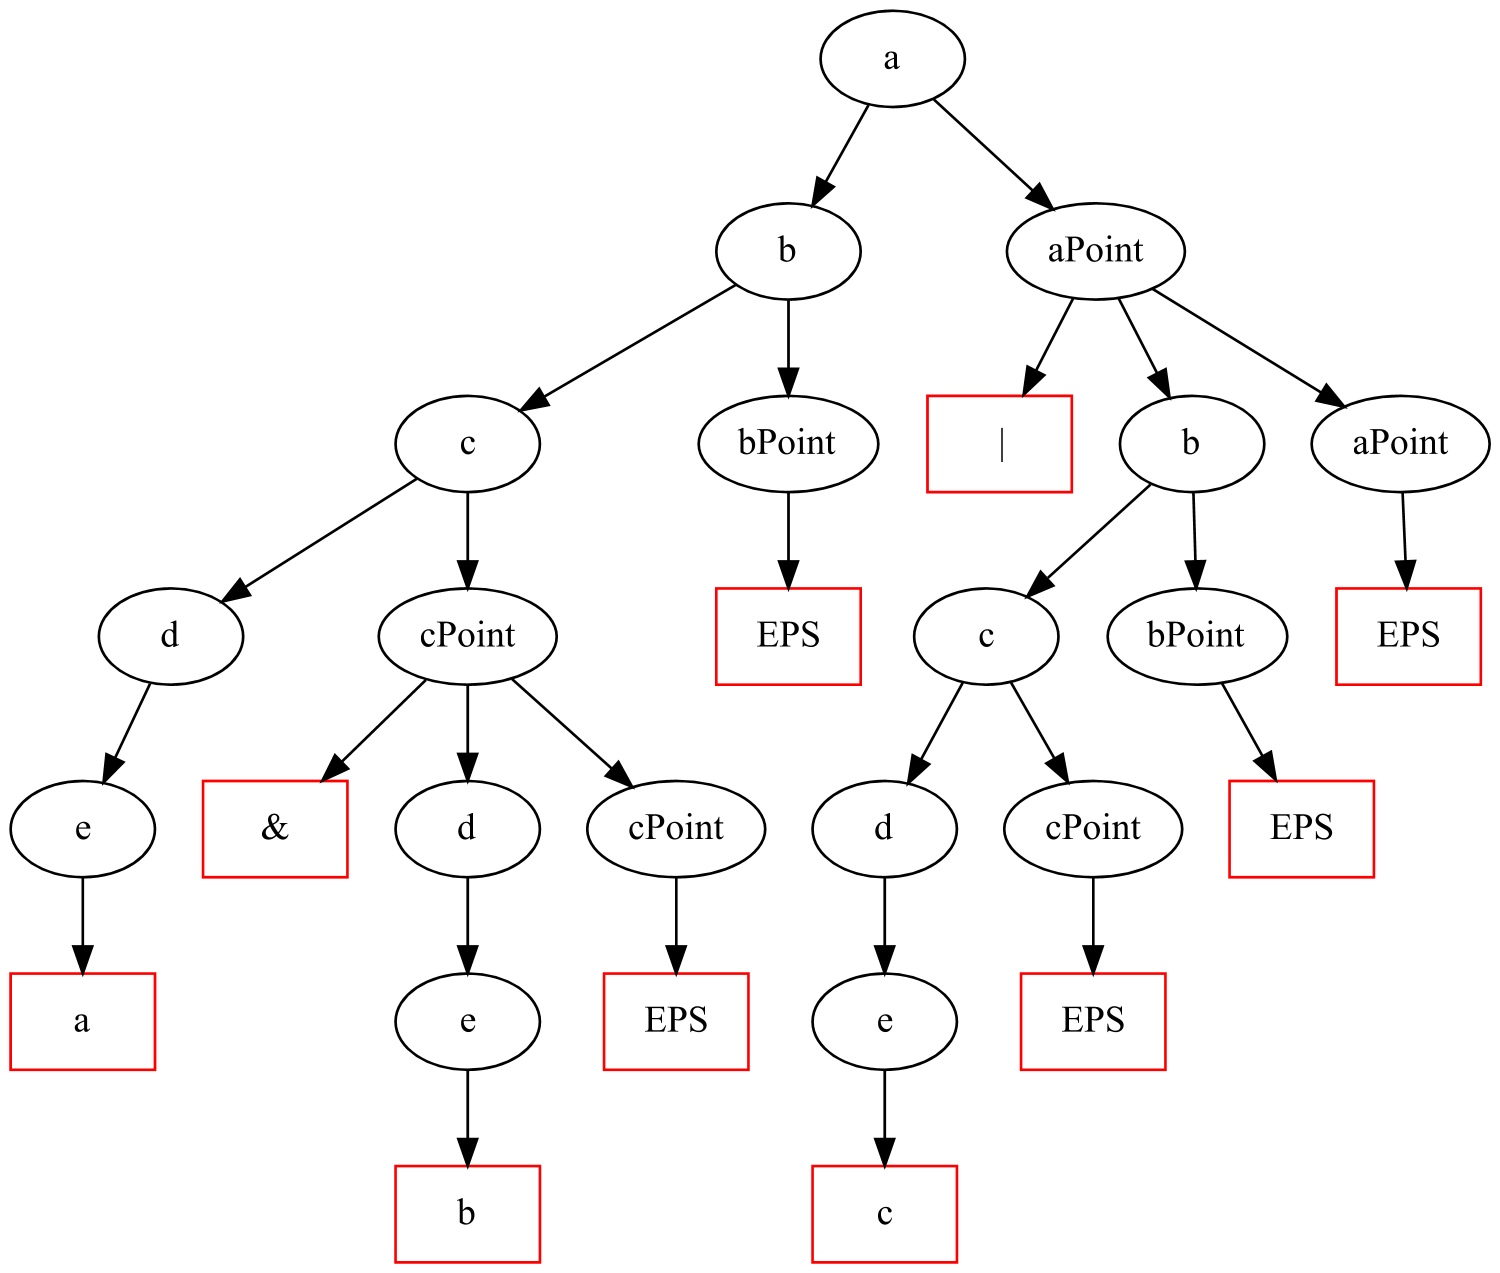
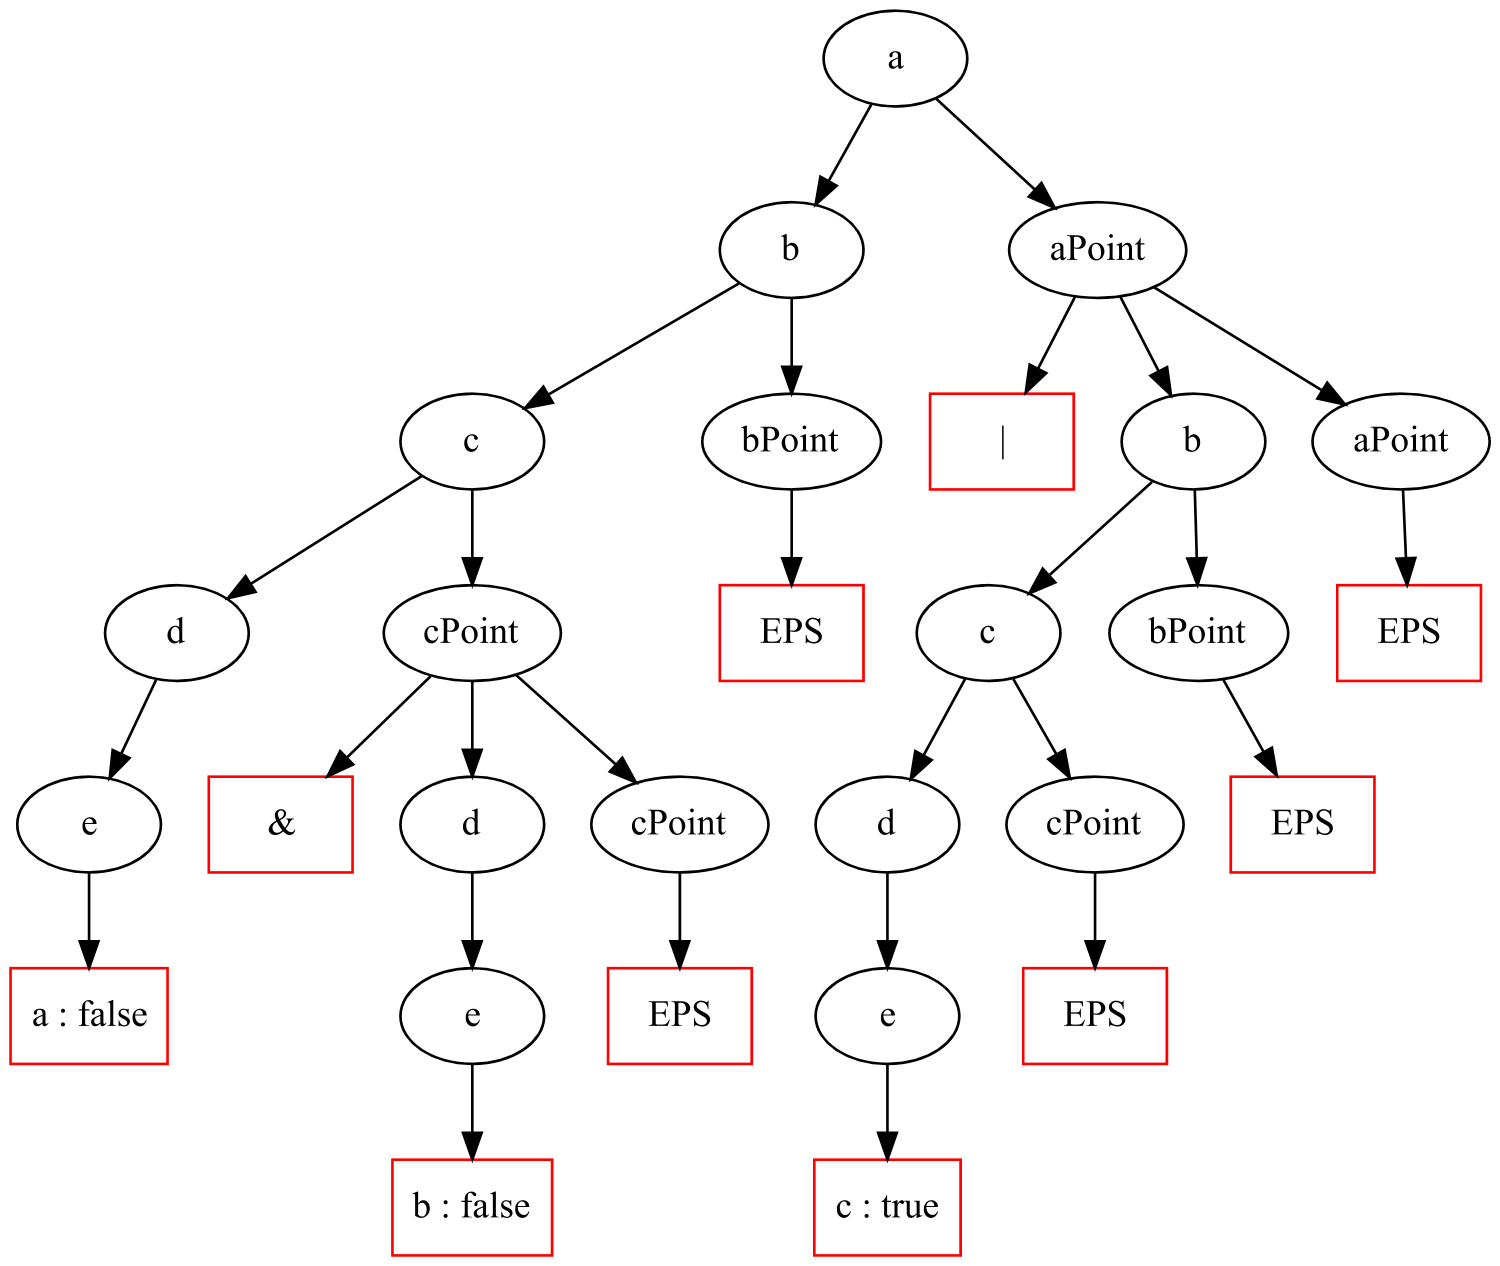
Modified lab4

diff --git a/src/lab4/examples/logicC/test/LogicCTest.kt b/src/lab4/examples/logicC/test/LogicCTest.kt
@@ -24,13 +24,13 @@ class LogicCTest {
         val correctExpression = mapOf(
             "a" to "SimpleVariable",
             "a & b" to "SimpleOperation",
-            "a ^ b ^ c" to "TripleOperation",
+            "a | b & c" to "TripleOperation",
             "(((a ^ b)))" to "SimpleOperationInBrackets",
             "!a" to "SimpleNot",
             "!(a | b)" to "SimpleNotWithSimpleOperation",
             "((((((a))))))^((((b))))" to "ManyBrackets",
             "(!a | b) & a & (a | !(b ^ c))" to "FullExpressionWithAllOperations",
-            "a & b & c & d & e & f & g & s & q" to "ManyVariables",
+            "a & b | c ^ d" to "ManyVariables",
             "(!a | (!a | b) & a & (a | !(b ^ c))) & a & ((!a | b) & a & (a | !(b ^ c)) | !(b ^ c))" to "LongExpression",
             "(!a | (!a | b) & a & (a | !(b ^ c))) & a & ((!a | (!a | (!a | b) & a & (a | !(b ^ c))) & a & ((!a | b) & a & (a | !(b ^ c)) | !(b ^ c))) & a & (a | !(b ^ c)) | !(b ^ c))" to "VeryLongExpression"
         )
@@ -63,7 +63,7 @@ class LogicCTest {
         return incorrectExpression.map { pair ->
             DynamicTest.dynamicTest("${pair.value}Test") {
                 println("Check expression ${pair.key}")
-                assertThrows<ParseException> { LogicCParser(LogicCLexer(pair.key)).a() }
+                assertThrows<ParseException> { LogicCParser(LogicCLexer(pair.key)).a(mapOf()) }
             }
         }.toList()
     }
@@ -122,7 +122,7 @@ class LogicCTest {
     }
 
     private fun expectedValue(expression: String, params: Map<String, Boolean>): Boolean {
-        return evaluate(params, treeWalk(LogicCParser(LogicCLexer(expression)).a(), params))
+        return LogicCParser(LogicCLexer(expression)).a(params).value
     }
 
     private fun evaluate(params: Map<String, Boolean>, string: String): Boolean {

diff --git a/src/lab4/examples/logicC/visualizer/Visualizer.kt b/src/lab4/examples/logicC/visualizer/Visualizer.kt
@@ -16,7 +16,7 @@ import java.io.File
 
 fun main() {
     val str = "a & b | c"
-    val res = LogicCParser(LogicCLexer(str)).a()
+    val res = LogicCParser(LogicCLexer(str)).a(mapOf("a" to false, "b" to false, "c" to true))
     Visualizer("src/lab4/examples/logicC/visualizer/graph.png").visualizeGraph(res)
 }
 
@@ -30,7 +30,11 @@ class Visualizer(private val path : String) {
 
     fun map(node: LogicCNode) : MutableNode {
         return if (node.isTerminal){
-            Factory.mutNode(getID()).add(Label.of(node.text!!)).add(Shape.BOX).add(Color.RED)
+            if (node.name == "VAR") {
+                Factory.mutNode(getID()).add(Label.of(node.text!! + " : " + node.value.toString())).add(Shape.BOX).add(Color.RED)
+            } else {
+                Factory.mutNode(getID()).add(Label.of(node.text!!)).add(Shape.BOX).add(Color.RED)
+            }
         } else {
             val parent = Factory.mutNode(getID()).add(Label.of(node.name!!))
             if (node.children.isEmpty()){

diff --git a/src/lab4/analyzers/grammar/Grammar.kt b/src/lab4/analyzers/grammar/Grammar.kt
@@ -17,12 +17,8 @@ class Grammar(
     class State(
         var name: String? = null,
         var args : List<String> = emptyList(),
-        var context : String? = null,
         var rules: MutableList<Rule> = mutableListOf()
     ) {
-        private val first: Set<String> = HashSet()
-        private val follow: Set<String> = HashSet()
-        private val hasEpsilon = false
         fun addRule(rule: Rule) = rules.plusAssign(rule)
         override fun toString(): String {
             val sb: StringBuilder = StringBuilder()

diff --git a/src/lab4/examples/logicC/Main.kt b/src/lab4/examples/logicC/Main.kt
@@ -5,7 +5,7 @@ import LogicCLexer
 import LogicCParser
 
 fun main() {
-    val tree = LogicCParser(LogicCLexer("a | b & c")).a()
+    val tree = LogicCParser(LogicCLexer("a & b | c")).a(mapOf("a" to false, "b" to false, "c" to true))
     println(tree)
 }
 
